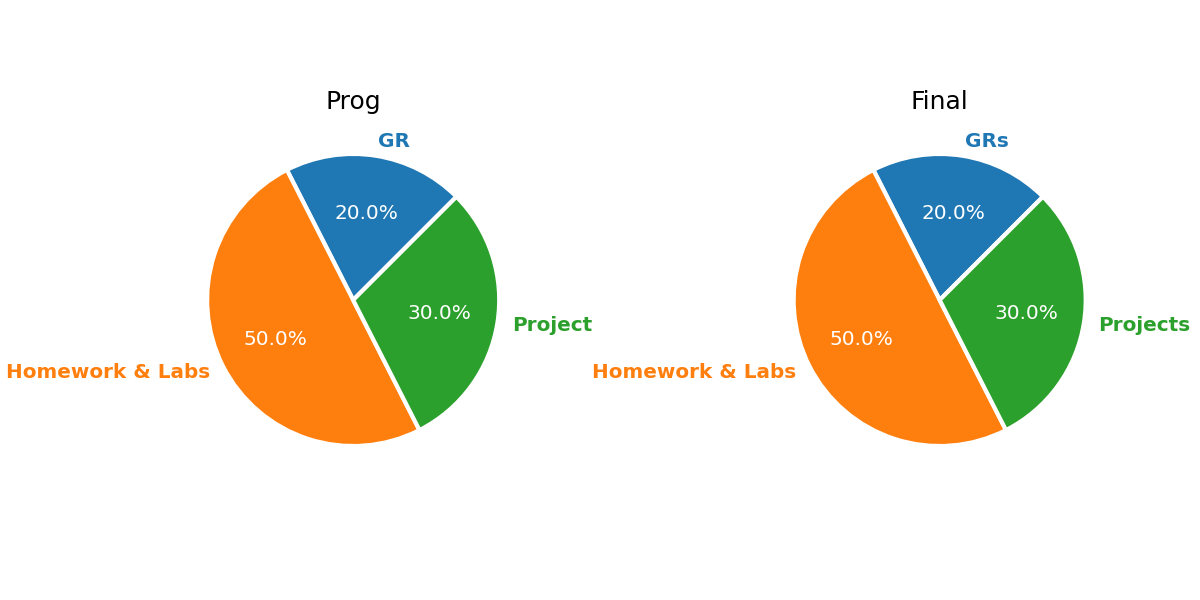
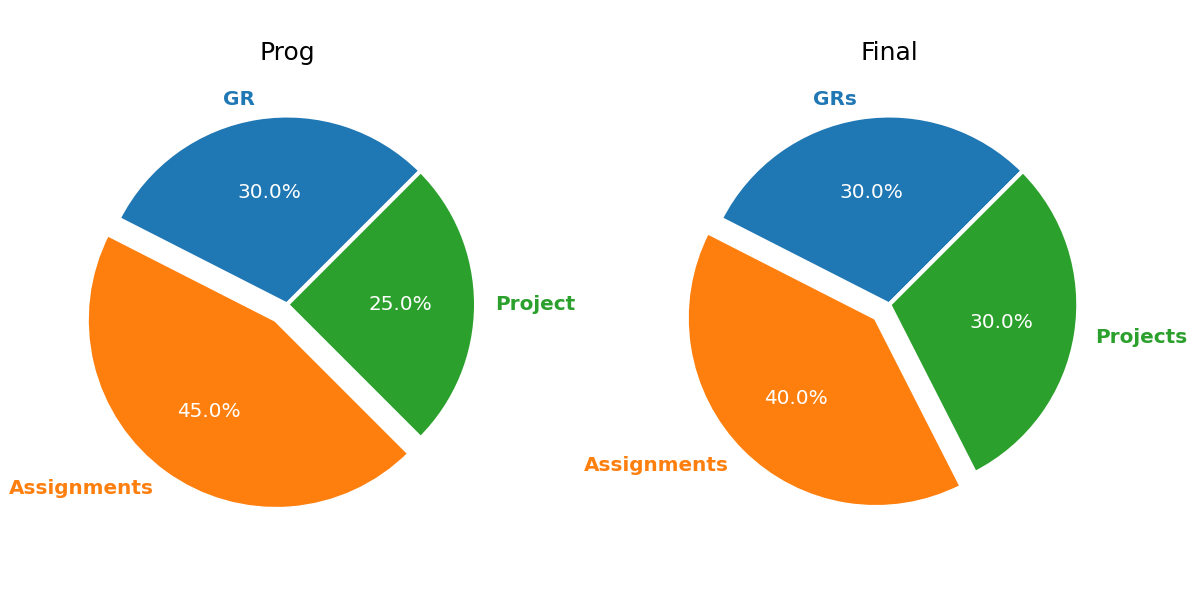
Updated GradeDistribution

diff --git a/docs/syllabus.md b/docs/syllabus.md
@@ -16,10 +16,9 @@ The **Grade distribution** for this course is shown below.
 
 |     Prog               |             |     Final              |             |
 |------------------------|-------------|------------------------|-------------|
-|     GR (1)             |     20%     |     GRs (2)            |     20%     |
-|     Labs               |     15%     |                        |            |
-|     Homework           |     45%     |     Homework & Labs    |     50%     |
-|     Project (1)        |     20%     |     Projects (2)       |     30%     |
+|     GR (1)             |     30%     |     GRs (2)            |     30%     |
+|     Assignments        |     45%     |     Assignments        |     40%     |
+|     Project (1)        |     25%     |     Projects (2)       |     30%     |
 |                        |             |                        |             |
 |     Total              |     100%    |     Total              |     100%    |
 
